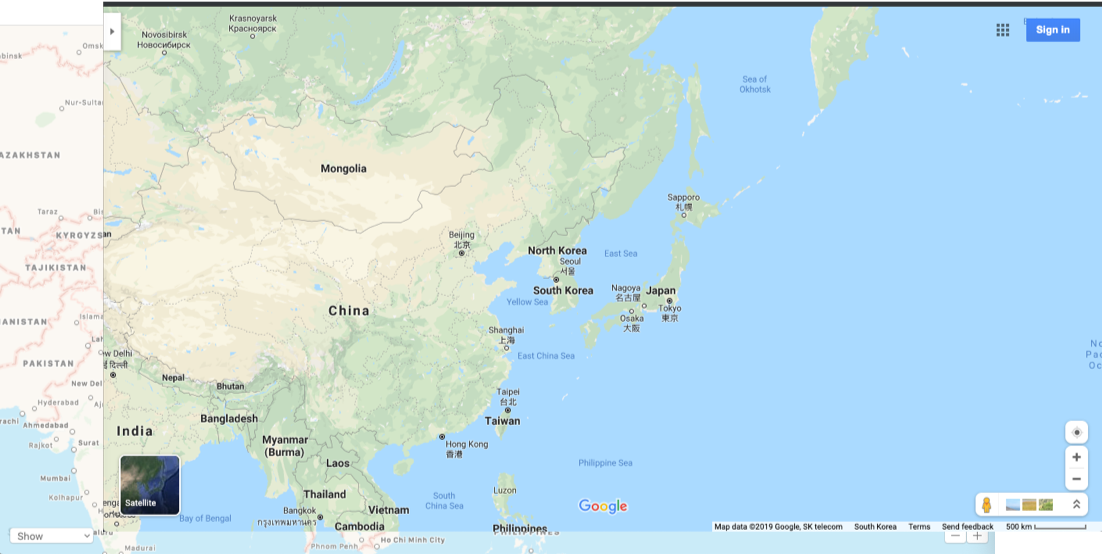
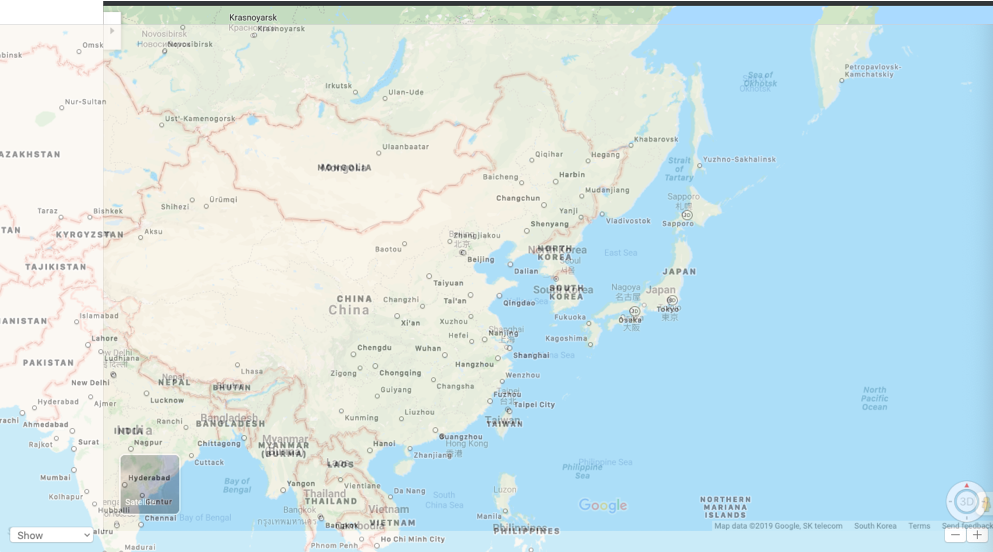
updates

diff --git a/post_temp/2019-08-22-PositionOfPOIs.md b/post_temp/2019-08-22-PositionOfPOIs.md
@@ -3,6 +3,8 @@ layout: post
 title: Popping Labels : Map Label Placement | 뛰어 다니는 레이블(주기) : 지도 레이블(주기) 위치
 ---
 
+# Label, the Finale of Cartography.
+
 Because of limited space,
 it is always hard to show all the labels on a map.
 
@@ -97,27 +99,64 @@ Z3-Z4 | Z4-Z5
 
 
 
+# Let's Talk About How The Label Positions are Different.
+
+
 It is obvious that the label positions of Apple Maps and Google Maps are very different.
+
+the two Koreas' label positions are somewhat similar. Difference between Apple and Google is just linebreak.
+
+But Google and Apple seemed to focus more in Japan.
+Because, there label positions are different in two maps.
+
+
+Japan's label position is very closed to Sendai area in Apple; on the other hand, Japan in Google stays in Honshu, the main island.
 
 <img src="https://github.com/pil0706/pil0706.github.io/blob/master/screenshots/positionofpois/z6asia_label_sq.png?raw=true">
 
+I know Apple does not pay too much attention to Korean market.
+I also know Google is trying to expand its territory to South Korea but the government puts regulation on Google.
+So the two koreas are abandoned by the two companies.
 
-By the way, I noticed that Europe was the best place where I can compare labels easily, for countries are very clustered.
+Japan, however, is very important market in Asia and I know the two companies are paying much attention on it.
+
+
+
+Let's go to Europe and see
 
 <img src="https://github.com/pil0706/pil0706.github.io/blob/master/screenshots/positionofpois/z6eu_label_sq.png?raw=true">
 
+I noticed that Europe was the best place where I can compare labels easily, for countries are very clustered.
 
+It might be my stereotypes. Or I maybe don't know much about Europe. Other than France, most of 'well-known' European countries label positions are different in the two services.
+
+But the other countries, such as Romanica, Bulgaria, Moldova, Slovenia, Austria, Hungary, Switzerland, etc., I know there markets are not big enough nor population either.
+
+What I can guess is that
+- if the two services' label positions are close enough
+- then, the two services are not paying much attention?
+- else,
+- they are special?
+
+Cartographers in Apple and Google only know the facts.
+But, I know for sure that the two services' maps in the two Koreas are no good at all.
 
 From the screenshots above, you now can tell the two services have totally different philosophies in map designing.
 
 
 
-Let me go more detail.
-What about cities?
 
+
+
+
+
+# What about capitals?
+
+Let me go more details.
 
 
 Seems like Google also considered capital cities for the country label positions.
+
 For instance, Poland label slightly went down because the Warsaw label can be overlapped with Poland label.
 
 Same issue comes almost in everywhere in Europe.
@@ -130,13 +169,6 @@ If there are no more space to move the labels (like Belgium & the Nerherlands), 
 <img src="https://github.com/pil0706/pil0706.github.io/blob/master/screenshots/positionofpois/ne_centroid_z5_eu2.png?raw=true">
 
 One funny thing is Belarus is very Big country though the label is smaller than its neighbors
-
-
-
-
-
-
-
 
 
 
